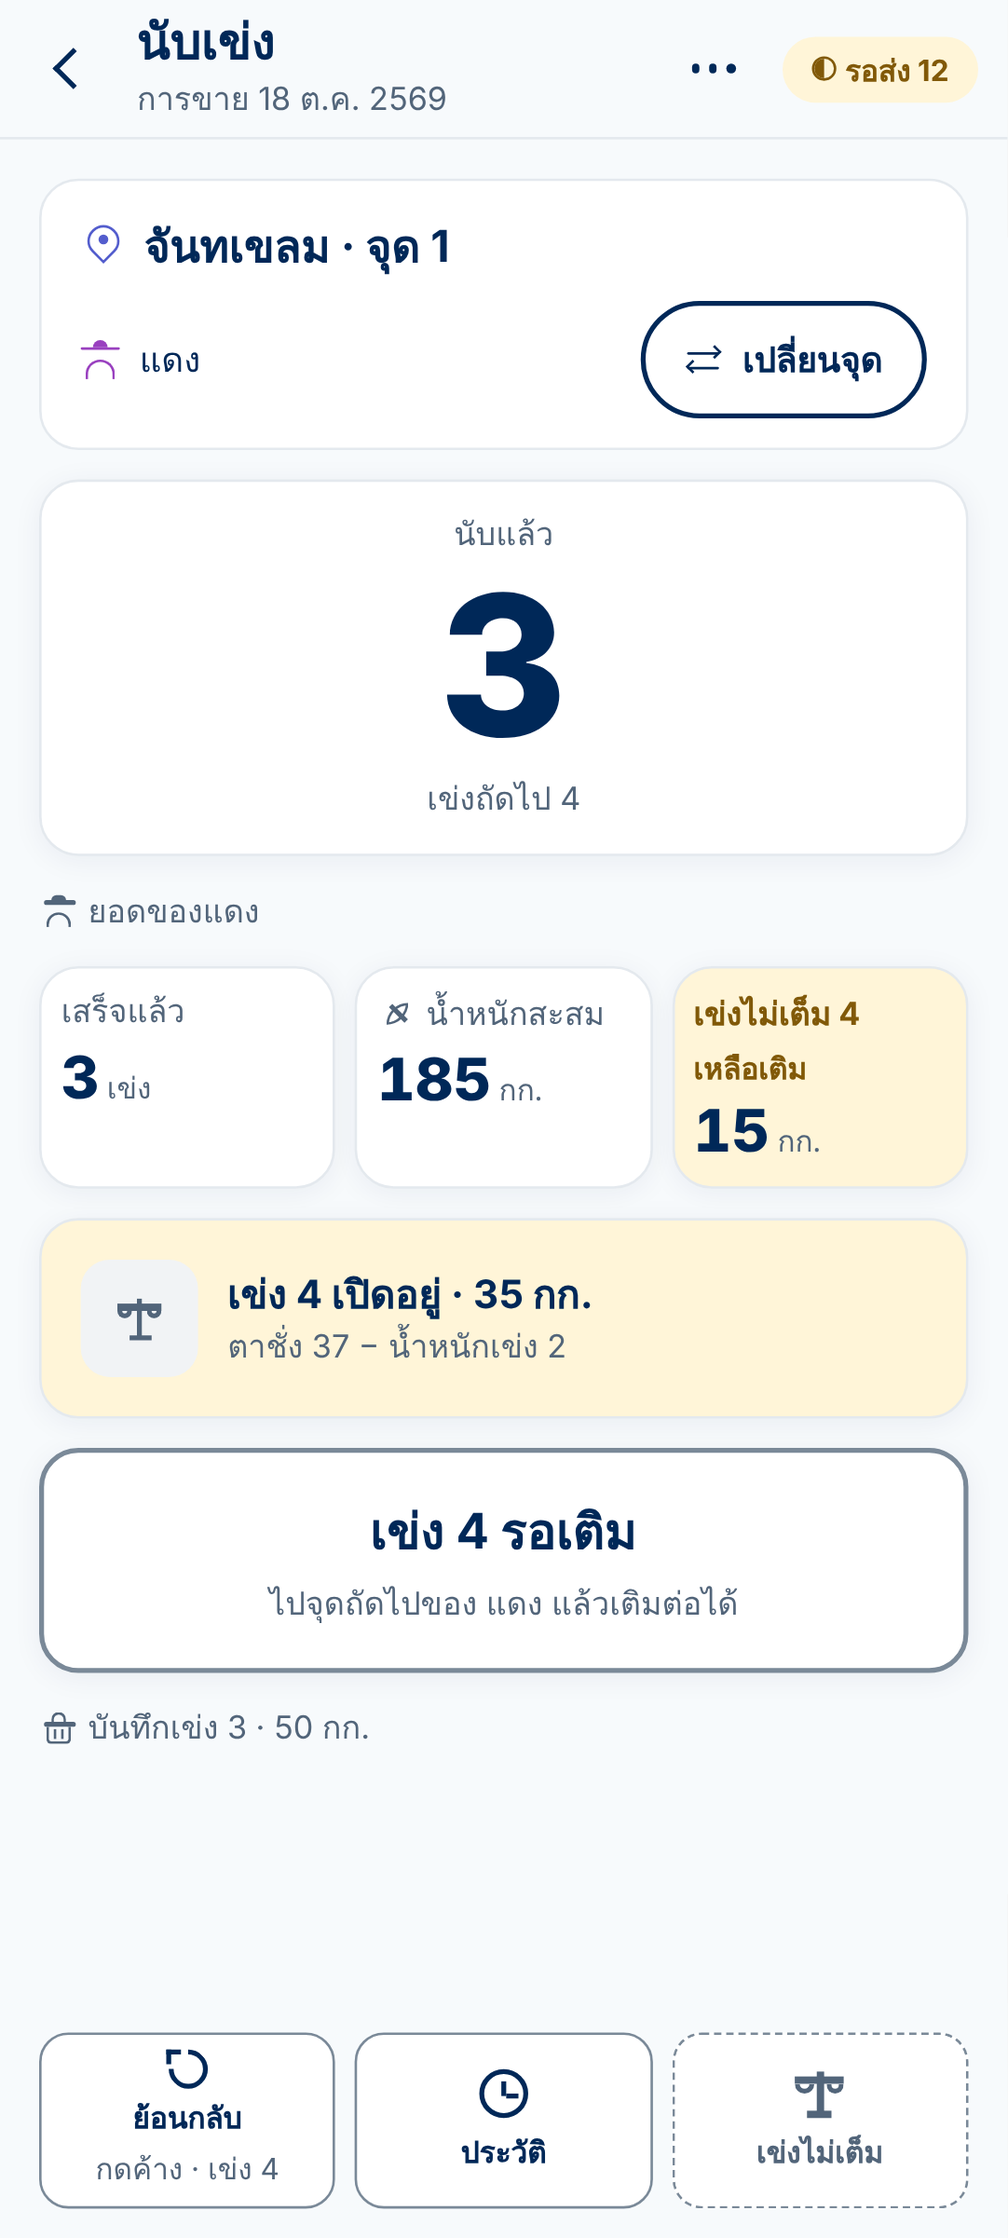
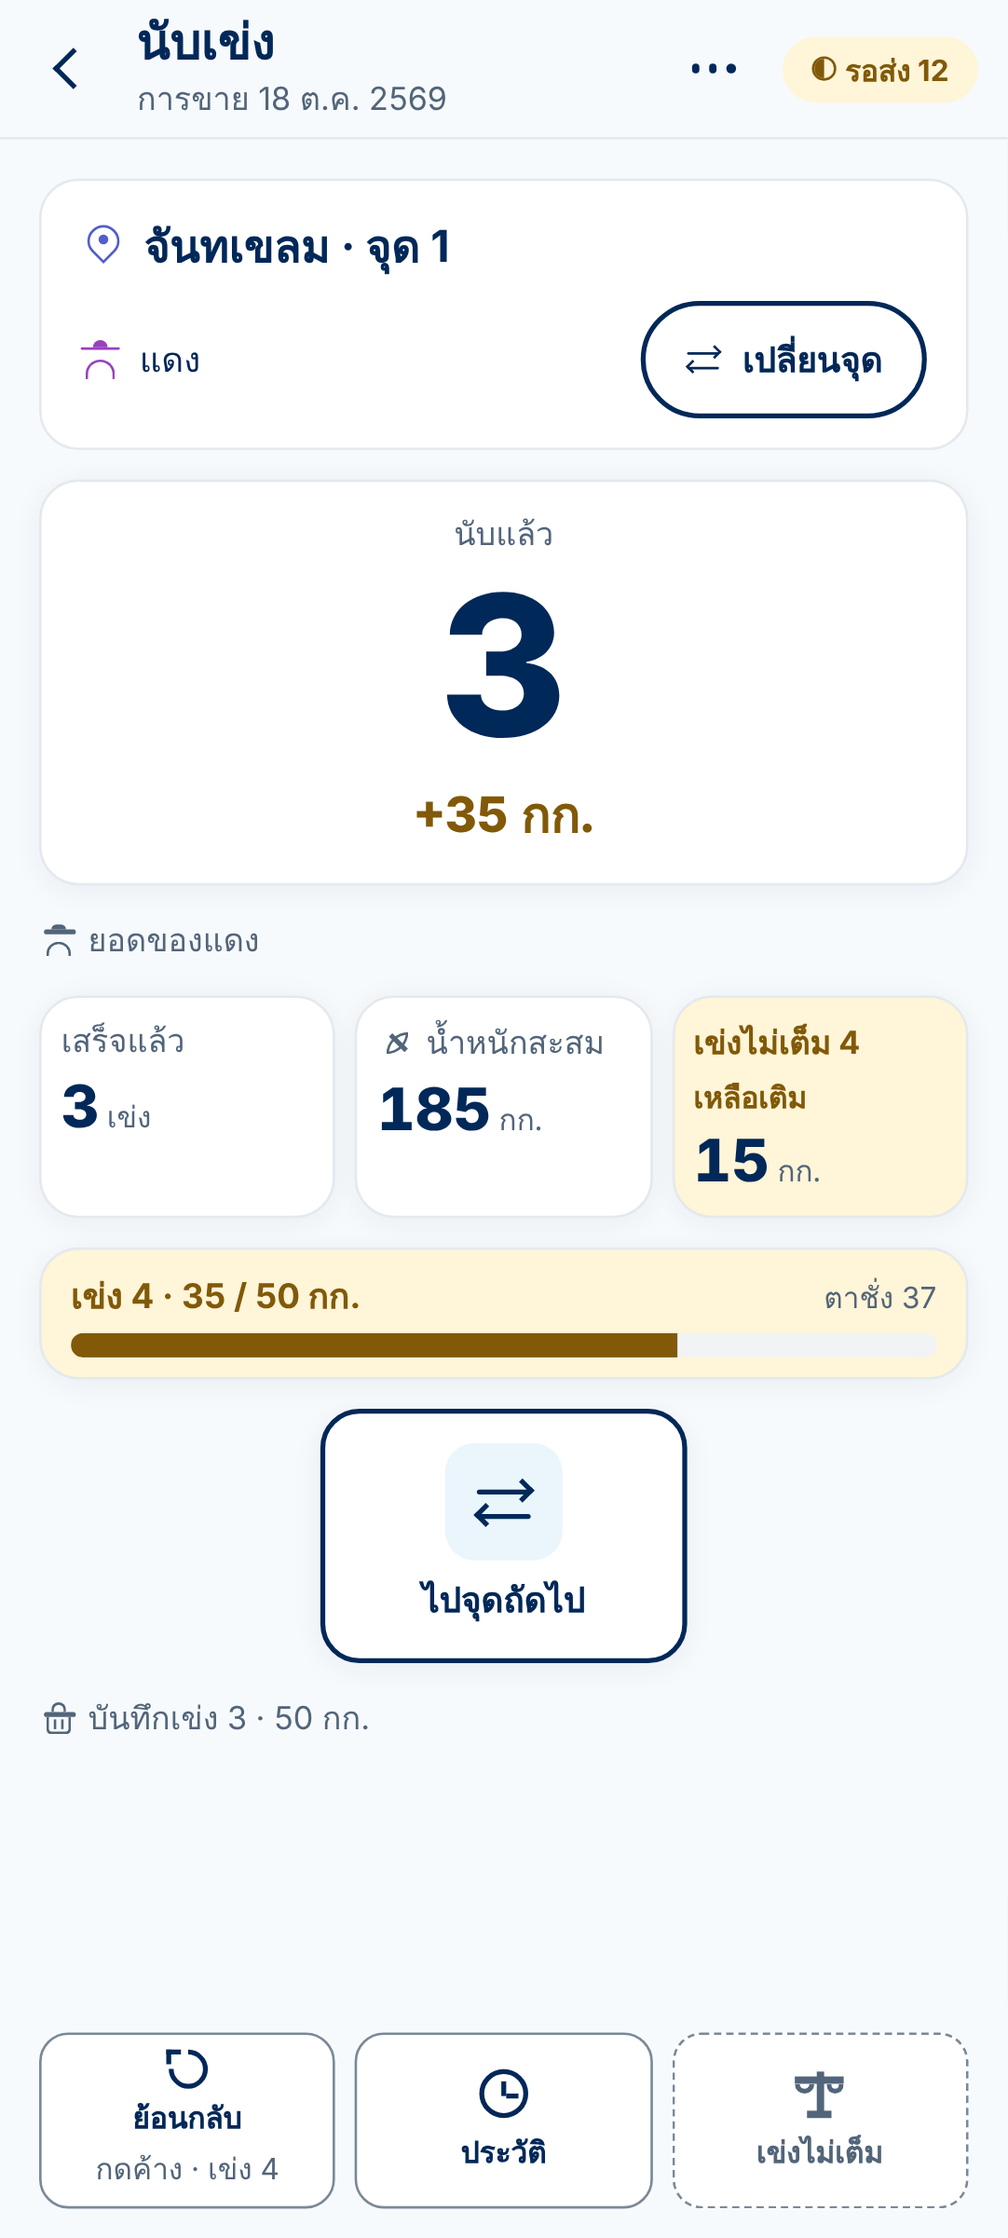
feat(sale): weight bar and next-point tiles
Owner comments on the mockup: +xx kg replaces the next-basket line,
the open short basket is one line with a weight bar, and the waiting
card gives way to a next-point tile (plus a summary tile at the last
point).

Claude-Session: https://claude.ai/code/session_01F8TWRagMFSqBhCxGZgWtMJ

Changed region(s): [[0.0305, 0.4059, 0.976, 0.7806], [0.427, 0.3435, 0.5795, 0.3747], [0.9455, 0.6557, 0.976, 0.7494]]

diff --git a/src/v2/sale/counter-screen.tsx b/src/v2/sale/counter-screen.tsx
@@ -22,18 +22,20 @@ import { pointsOf, tapperOn } from '../../core/master';
 import { saleSkewG } from '../../core/scale-check';
 import { fieldKg, netFromReading, readingFromNet } from '../../core/short-reading';
 import { basketNetG } from '../../core/totals';
-import { basketList } from '../../core/sale-points';
+import { basketList, saleRollup } from '../../core/sale-points';
 import { useT } from '../../i18n';
 import { peopleStore } from '../../store/people';
 import { readWeighBasis, readWeighMode, writeWeighBasis, type WeighBasis, type WeighMode } from '../../store/weigh-mode-preference';
 import { useTheme } from '../../theme';
 import {
+  ActionTile,
   AlertIcon,
   AppText,
   BasketIcon,
   BottomSheet,
   Button,
   cardStyle,
+  ChartIcon,
   ChevronRight,
   ClockIcon,
   CTA,
@@ -44,6 +46,7 @@ import {
   PinIcon,
   Plus,
   ScaleIcon,
+  SwapIcon,
   TapperIcon,
   TextField,
   Undo,
@@ -76,7 +79,7 @@ export function CounterScreen({ initialSheet = 'none' }: { initialSheet?: Sheet 
   const view = useSaleView();
   const goTo = useGoToPoint(view);
   useLeaveIfClosed(view);
-  const { saleId, events, state, master, day, mode, append, nameOf, saleTitle, reloadMaster } = view;
+  const { saleId, events, state, master, day, append, nameOf, saleTitle, reloadMaster } = view;
   const pointId = params.point ?? '';
   const [sheet, setSheet] = useState<Sheet>(initialSheet);
   const [readingKg, setReadingKg] = useState<number | null>(null);
@@ -114,6 +117,8 @@ export function CounterScreen({ initialSheet = 'none' }: { initialSheet?: Sheet 
   const { pile, figs, open, filling, waiting, fill, basketTare, ready } = model;
   const skew = saleSkewG(events);
   const holdKey = countKey();
+  const rollup = saleRollup(events, master, day);
+  const lastPoint = master.points.filter((p) => !p.hidden && p.id !== pointId).every((p) => (rollup.byPoint.get(p.id)?.baskets ?? 0) > 0);
   const std = pile.stdNetG;
   const tare = pile.tareG;
   const kg = (g: number) => msg('v2f.kg', { n: kgText(g) });
@@ -236,6 +241,8 @@ export function CounterScreen({ initialSheet = 'none' }: { initialSheet?: Sheet 
     const root = open ? events.find((e) => e.id === open.rootId) : undefined;
     return root && root.kind === 'short' ? root.readingG : null;
   })();
+
+  const openPct = open ? Math.round((open.haveG / (open.haveG + open.missingG)) * 100) : 0;
 
   return (
     <FarmScreen
@@ -467,7 +474,13 @@ export function CounterScreen({ initialSheet = 'none' }: { initialSheet?: Sheet 
         <Text testID="current-done" style={{ fontFamily: t.font.family.sans, fontSize: 80, lineHeight: 88, fontWeight: t.font.weight.black, fontVariant: ['tabular-nums'], color: t.color.numeral }}>
           {figs.done}
         </Text>
-        <AppText testID="current-no" variant="bodySm">{msg('rec.nextNo', { n: figs.currentNo })}</AppText>
+        {waiting && open ? (
+          <Text testID="current-short" style={{ fontFamily: t.font.family.sans, fontSize: t.font.size.headingLg, fontWeight: t.font.weight.black, fontVariant: ['tabular-nums'], color: t.color.warn }}>
+            {msg('rec.shortKg', { kg: kgText(open.haveG) })}
+          </Text>
+        ) : (
+          <AppText testID="current-no" variant="bodySm">{msg('rec.nextNo', { n: figs.currentNo })}</AppText>
+        )}
       </View>
       <IconLine icon={(c) => <TapperIcon color={c} size={13} />}>{scopeTitle}</IconLine>
       <View style={{ flexDirection: 'row', gap: t.space.sm }}>
@@ -495,19 +508,20 @@ export function CounterScreen({ initialSheet = 'none' }: { initialSheet?: Sheet 
       </View>
 
       {waiting && open ? (
-        <View testID="open-card" style={{ ...cardStyle(t), backgroundColor: t.color.warnSunk, padding: t.space.lg, gap: t.space.sm }}>
-          <View style={{ flexDirection: 'row', alignItems: 'center', gap: t.space.md }}>
-            <IconTile tone="neutral" icon={(c) => <ScaleIcon color={c} size={18} />} />
-            <View style={{ flex: 1 }}>
-              <AppText style={{ fontWeight: t.font.weight.bold }}>{skew ? msg('v2s.openNo', { n: open.basketNo }) : msg('rec.openCard', { n: open.basketNo, kg: kgText(open.haveG) })}</AppText>
-              {rootReading !== null ? (
-                <AppText variant="bodySm">
-                  {skew
-                    ? msg('v2s.openReadingSkew', { reading: kgText(rootReading), tare: kgText(tare), skew: signed(kgText(skew)), net: kgText(open.haveG) })
-                    : msg('v2s.openReading', { reading: kgText(rootReading), tare: kgText(tare) })}
-                </AppText>
-              ) : null}
-            </View>
+        <View testID="open-card" style={{ ...cardStyle(t), backgroundColor: t.color.warnSunk, paddingVertical: t.space.sm, paddingHorizontal: t.space.md, gap: t.space.xs }}>
+          <View style={{ flexDirection: 'row', alignItems: 'baseline', justifyContent: 'space-between', gap: t.space.sm }}>
+            <Text style={{ fontFamily: t.font.family.sans, fontSize: t.font.size.bodyMd, fontWeight: t.font.weight.bold, color: t.color.warn }}>
+              {msg('rec.openBar', { n: open.basketNo, have: kgText(open.haveG), full: kgText(open.haveG + open.missingG) })}
+            </Text>
+            {rootReading !== null ? <AppText variant="caption">{msg('rec.scaleSmall', { reading: kgText(rootReading) })}</AppText> : null}
+          </View>
+          <View
+            testID="open-bar"
+            accessibilityRole="progressbar"
+            accessibilityValue={{ min: 0, max: 100, now: openPct }}
+            style={{ height: 10, borderRadius: t.radius.pill, backgroundColor: t.color.surfaceSunk, overflow: 'hidden' }}
+          >
+            <View style={{ width: `${openPct}%`, height: '100%', backgroundColor: t.color.warn }} />
           </View>
         </View>
       ) : null}
@@ -520,9 +534,15 @@ export function CounterScreen({ initialSheet = 'none' }: { initialSheet?: Sheet 
           </Button>
         </View>
       ) : waiting && open ? (
-        <View testID="stage-wait" style={{ ...cardStyle(t), borderWidth: t.border.thick, borderColor: t.color.ruleStrong, alignItems: 'center', padding: t.space.lg, gap: t.space.xs }}>
-          <Text style={{ fontFamily: t.font.family.sans, fontSize: t.font.size.headingLg, fontWeight: t.font.weight.bold, color: t.color.ink }}>{msg('rec.waitFill', { n: open.basketNo })}</Text>
-          <AppText variant="bodySm">{tapper && mode === 'per-tapper' ? msg('rec.waitFillHint', { name: tapperName }) : msg('rec.waitFillPoint')}</AppText>
+        <View testID="stage-wait" style={{ flexDirection: 'row', justifyContent: 'center', gap: t.space.md }}>
+          <View style={{ width: 150 }}>
+            <ActionTile testID="next-point" label={msg('rec.nextPoint')} icon={(c) => <SwapIcon color={c} size={26} />} main={!lastPoint} onPress={() => router.push(`${base}/point?mode=switch&farm=${farm.id}${tapper ? `&tapper=${tapper}` : ''}` as Href)} />
+          </View>
+          {lastPoint ? (
+            <View style={{ width: 150 }}>
+              <ActionTile testID="to-summary" label={msg('rec.summary')} icon={(c) => <ChartIcon color={c} size={26} />} main onPress={() => router.push(`${base}/check` as Href)} />
+            </View>
+          ) : null}
         </View>
       ) : (
         <HoldStage testID="hold" label={filling && open ? msg('v2s.fillStage', { n: open.basketNo }) : msg(holdKey, { n: figs.currentNo })} onHold={count} onEarly={early} minHeight={filling ? 150 : 120}>

diff --git a/src/i18n/messages.ts b/src/i18n/messages.ts
@@ -707,9 +707,12 @@ const th = {
   'rec.current': 'เข่งปัจจุบัน',
   'rec.counted': 'นับแล้ว',
   'rec.nextNo': 'เข่งถัดไป {n}',
+  'rec.shortKg': '+{kg} กก.',
+  'rec.openBar': 'เข่ง {n} · {have} / {full} กก.',
+  'rec.scaleSmall': 'ตาชั่ง {reading}',
+  'rec.nextPoint': 'ไปจุดถัดไป',
+  'rec.summary': 'สรุปยอดขาย',
   'rec.waitFill': 'เข่ง {n} รอเติม',
-  'rec.waitFillHint': 'ไปจุดถัดไปของ {name} แล้วเติมต่อได้',
-  'rec.waitFillPoint': 'จุดนี้จบแล้ว · ถ้ายังมียาง กดย้อนกลับเข่งไม่เต็มก่อน',
   'rec.totalsOf': 'ยอดของ{name}',
   'rec.totalsOfPoint': 'ยอดของจุดนี้',
   'rec.done': 'เสร็จแล้ว',
@@ -768,7 +771,6 @@ const th = {
   'rec.finish': 'ชั่งครบแล้ว → ตรวจยอด',
   'rec.shortOf': 'เข่งไม่เต็ม {n}',
   'rec.missing': 'เหลือเติม',
-  'rec.openCard': 'เข่ง {n} เปิดอยู่ · {kg} กก.',
   'rec.openReading': 'ตาชั่ง {reading} - น้ำหนักเข่ง {tare}',
   'rec.parts': '({parts}) = {total}',
   'fill.title': 'เข่ง {n} ยังไม่เต็ม',
@@ -1552,9 +1554,6 @@ const th = {
   'v2s.noTapperTitle': 'จุดนี้ยังไม่มีคนกรีดยาง',
   'v2s.noTapperL1': 'ชั่งต่อได้ตามปกติ',
   'v2s.assignNow': 'มอบหมายตอนนี้',
-  'v2s.openNo': 'เข่ง {n} เปิดอยู่',
-  'v2s.openReading': 'ตาชั่ง {reading} − น้ำหนักเข่ง {tare}',
-  'v2s.openReadingSkew': 'ตาชั่ง {reading} − น้ำหนักเข่ง {tare} · ค่าเบี้ยว {skew} → {net} กก.',
   'v2s.fillStage': 'เติมเข่ง {n}',
   'v2s.fillStagePart': 'ชั่งส่วนที่เติม เข่ง {n}',
   'v2s.fullLine': 'เต็มเข่ง {n}',
@@ -2432,9 +2431,12 @@ const en: Partial<Record<keyof typeof th, string>> = {
   'rec.current': 'current basket',
   'rec.counted': 'counted',
   'rec.nextNo': 'next basket {n}',
+  'rec.shortKg': '+{kg} kg',
+  'rec.openBar': 'basket {n} · {have} / {full} kg',
+  'rec.scaleSmall': 'scale {reading}',
+  'rec.nextPoint': 'next point',
+  'rec.summary': 'sale summary',
   'rec.waitFill': 'basket {n} waits to be filled',
-  'rec.waitFillHint': 'go to the next point of {name} and fill it there',
-  'rec.waitFillPoint': 'this point is finished · if there is more rubber, undo the short basket first',
   'rec.totalsOf': "{name}'s totals",
   'rec.totalsOfPoint': "this point's totals",
   'rec.done': 'done',
@@ -2493,7 +2495,6 @@ const en: Partial<Record<keyof typeof th, string>> = {
   'rec.finish': 'all weighed → review totals',
   'rec.shortOf': 'short basket {n}',
   'rec.missing': 'still to fill',
-  'rec.openCard': 'basket {n} open · {kg} kg',
   'rec.openReading': 'scale {reading} - basket {tare}',
   'rec.parts': '({parts}) = {total}',
   'fill.title': 'basket {n} is not full',
@@ -3267,9 +3268,6 @@ const en: Partial<Record<keyof typeof th, string>> = {
   'v2s.noTapperTitle': 'this point has no tapper yet',
   'v2s.noTapperL1': 'weighing goes on as usual',
   'v2s.assignNow': 'assign now',
-  'v2s.openNo': 'basket {n} is open',
-  'v2s.openReading': 'scale {reading} − basket {tare}',
-  'v2s.openReadingSkew': 'scale {reading} − basket {tare} · skew {skew} → {net} kg',
   'v2s.fillStage': 'fill basket {n}',
   'v2s.fillStagePart': 'weigh the added part of basket {n}',
   'v2s.fullLine': 'full basket {n}',

diff --git a/src/__tests__/v2-sale-weigh.test.tsx b/src/__tests__/v2-sale-weigh.test.tsx
@@ -234,10 +234,15 @@ describe('v2 counter (pages 8, 10, 11, 12, 13)', () => {
     await press('short-save');
     const ev = await store().load(saleId);
     expect(ev.find((e) => e.kind === 'short')).toMatchObject({ readingG: 37_000, tareG: 2_000, basketNo: 2 });
-    expect(screen.getByTestId('open-card')).toHaveTextContent(/เข่ง 2 เปิดอยู่ · 35 กก\./);
+    // One line: a bar of the rubber held against a full basket, the scale reading small (owner 2026-10-18).
+    expect(screen.getByTestId('open-card')).toHaveTextContent(/เข่ง 2.*35 \/ 50 กก\..*ตาชั่ง 37/);
+    expect(screen.getByTestId('open-bar').props.accessibilityValue).toMatchObject({ now: 70, min: 0, max: 100 });
+    expect(screen.getByTestId('current-short')).toHaveTextContent('+35 กก.');
+    expect(screen.queryByTestId('current-no')).toBeNull();
     expect(screen.getByTestId('fig-missing')).toHaveTextContent(/^15/);
-    // The point is finished (owner 2026-10-17): no finish button, nothing counts here.
-    expect(screen.getByTestId('stage-wait')).toHaveTextContent(/เข่ง 2 รอเติม/);
+    // The point is finished (owner 2026-10-17): no finish button, no hold, no hint — one button to the next point.
+    expect(screen.queryByText(/รอเติม/)).toBeNull();
+    expect(screen.getByTestId('next-point')).toBeTruthy();
     expect(screen.queryByTestId('close-open')).toBeNull();
     expect(screen.queryByTestId('hold')).toBeNull();
     // The only way on is undo: the short basket goes, the number comes back.
@@ -246,6 +251,33 @@ describe('v2 counter (pages 8, 10, 11, 12, 13)', () => {
     expect(screen.getByTestId('current-no')).toHaveTextContent(/เข่งถัดไป 2$/);
     await hold();
     expect(screen.getByTestId('fig-done')).toHaveTextContent(/^2/);
+  });
+
+  it('the last point offers the summary beside the next-point button; another point left means no summary (E04-S17)', async () => {
+    await started();
+    await readyAt(farm.a[0]);
+    await counterAt(farm.a[0]);
+    await press('tool-short');
+    await press('short-save');
+    expect(screen.queryByTestId('to-summary')).toBeNull();
+    await press('next-point');
+    expect(router.push).toHaveBeenLastCalledWith(expect.stringContaining('/point?mode=switch'));
+  });
+
+  it('at the last point the summary button joins the next-point button (E04-S17)', async () => {
+    await started();
+    for (const id of [...farm.a.slice(1), farm.b1]) {
+      await readyAt(id);
+      const c = await counterAt(id);
+      await hold();
+      c.unmount();
+    }
+    await readyAt(farm.a[0]);
+    await counterAt(farm.a[0]);
+    await press('tool-short');
+    await press('short-save');
+    await press('to-summary');
+    expect(router.push).toHaveBeenLastCalledWith(`/v2/sale/${saleId}/check`);
   });
 
   it('option 3 closes nothing until a full basket is counted, and can be re-chosen (E04-S17)', async () => {

diff --git a/docs/stories/e04-s17-basket-counting-ux.md b/docs/stories/e04-s17-basket-counting-ux.md
@@ -19,7 +19,18 @@ Status: In Progress
 
 **ตัดสินใจของเจ้าของ 2026-10-17 (เข่งไม่เต็มเปิดอยู่ที่จุดนี้):** เข่งไม่เต็มเปิดอยู่ = **จุดนี้จบแล้ว** ไม่มีการกดค้างที่จุดนี้เลย ทั้งเติมเข่งนั้นและนับเข่งถัดไป (ตัวอย่าง: นับเต็ม 13 เข่ง แล้วบันทึกเข่งที่ 14 ไม่เต็ม 22 กก. จุดนี้จบ) ถ้าเจอยางเพิ่ม ทำได้อย่างเดียวคือ **ย้อนกลับ** แล้วบันทึกเป็นเข่งเต็ม (กดค้างใหม่) หรือเข่งไม่เต็มด้วยน้ำหนักใหม่ (เช่น 30 กก.) UI ส่วนนี้เหมือนเดิม (การ์ด "เข่ง N รอเติม" แทนพื้นที่กดค้าง) **ตัดเฉพาะปุ่ม "จบเข่งนี้"** ไม่มี ADR เพราะเป็นการเปลี่ยน UI ไม่ใช่สถาปัตยกรรม (บันทึกไว้ในสตอรี่นี้)
 
+**คอมเมนต์เจ้าของบน mockup 2026-10-18 (อนุมัติแล้ว) — หน้านับเมื่อมีเข่งไม่เต็มเปิดอยู่ที่จุดนี้:**
+1. การ์ดใหญ่: เลข "นับแล้ว" คงเดิม; บรรทัดเล็กใต้เลขเปลี่ยนจาก "เข่งถัดไป N" เป็น **+xx กก.** (น้ำหนักยางของเข่งไม่เต็ม เช่น +22 กก. — เจ้าของยืนยัน) และเน้นสีเตือนให้เห็นชัด
+2. การ์ดเข่งที่เปิดอยู่: บรรทัดเดียวอ่านง่าย เป็น **แถบน้ำหนัก** แสดงยางที่มีกี่ % ของน้ำหนักเต็มเข่ง (เช่น 22 จาก 50 กก. = 44%) ความสูงพอดี สีจาก design system; "ตาชั่งอ่านเท่าไหร่" กำกับเล็กๆ ไม่รก
+3. พื้นที่ "เข่ง N รอเติม" + ข้อความคำใบ้ **ตัดออก** แทนด้วย **ปุ่มสี่เหลี่ยม (ActionTile) อยู่กลาง** "ไปจุดถัดไป" พร้อมไอคอน ไม่มีคำอธิบายอื่น (ผู้ใช้กดย้อนกลับเองเมื่อรู้ว่าเติมไม่ได้)
+4. ถ้านี่คือจุดชั่งสุดท้าย (จุดอื่นที่มองเห็นทั้งหมดชั่งแล้ว) เพิ่มปุ่มสี่เหลี่ยมอีกอัน **เด่นกว่า** (`main`) "สรุปยอดขาย" ไปหน้าตรวจยอดเดียวกับในเมนู
+
 ## Acceptance criteria
+
+- [x] มีเข่งไม่เต็มเปิดอยู่ที่จุดนี้: บรรทัดเล็กใต้เลขนับแล้วแสดง `+22 กก.` (`current-short`) ไม่แสดง "เข่งถัดไป"; ไม่มีเข่งไม่เต็ม แสดง "เข่งถัดไป N" เหมือนเดิม
+- [x] การ์ดเข่งเปิดอยู่ (`open-card`) เป็นแถบเปอร์เซ็นต์ `open-bar` (ความกว้าง = ยางที่มี / น้ำหนักเต็มเข่ง) พร้อมข้อความ "เข่ง 4 · 22 / 50 กก." และ "ตาชั่ง 24"
+- [x] `stage-wait` ไม่มีข้อความ "รอเติม"/คำใบ้; มีปุ่ม `next-point` กลาง (ไปหน้าเลือกจุด สลับจุด)
+- [x] จุดสุดท้าย: มีปุ่ม `to-summary` (main) ไปหน้าตรวจยอด; ยังมีจุดอื่นที่ไม่ได้ชั่ง: ไม่มีปุ่มนี้
 
 - [x] เข่งไม่เต็มเปิดอยู่ที่จุดนี้: ยังเป็นการ์ด `stage-wait` "เข่ง N รอเติม" ไม่มีปุ่มกดค้าง (ทั้งหน้านับและโหมดสาธารณะ) ไม่มีปุ่มจบเข่ง; ย้อนกลับ (กดค้าง) เอาเข่งไม่เต็มออก เลขกลับมา แล้วบันทึกใหม่ได้
 
